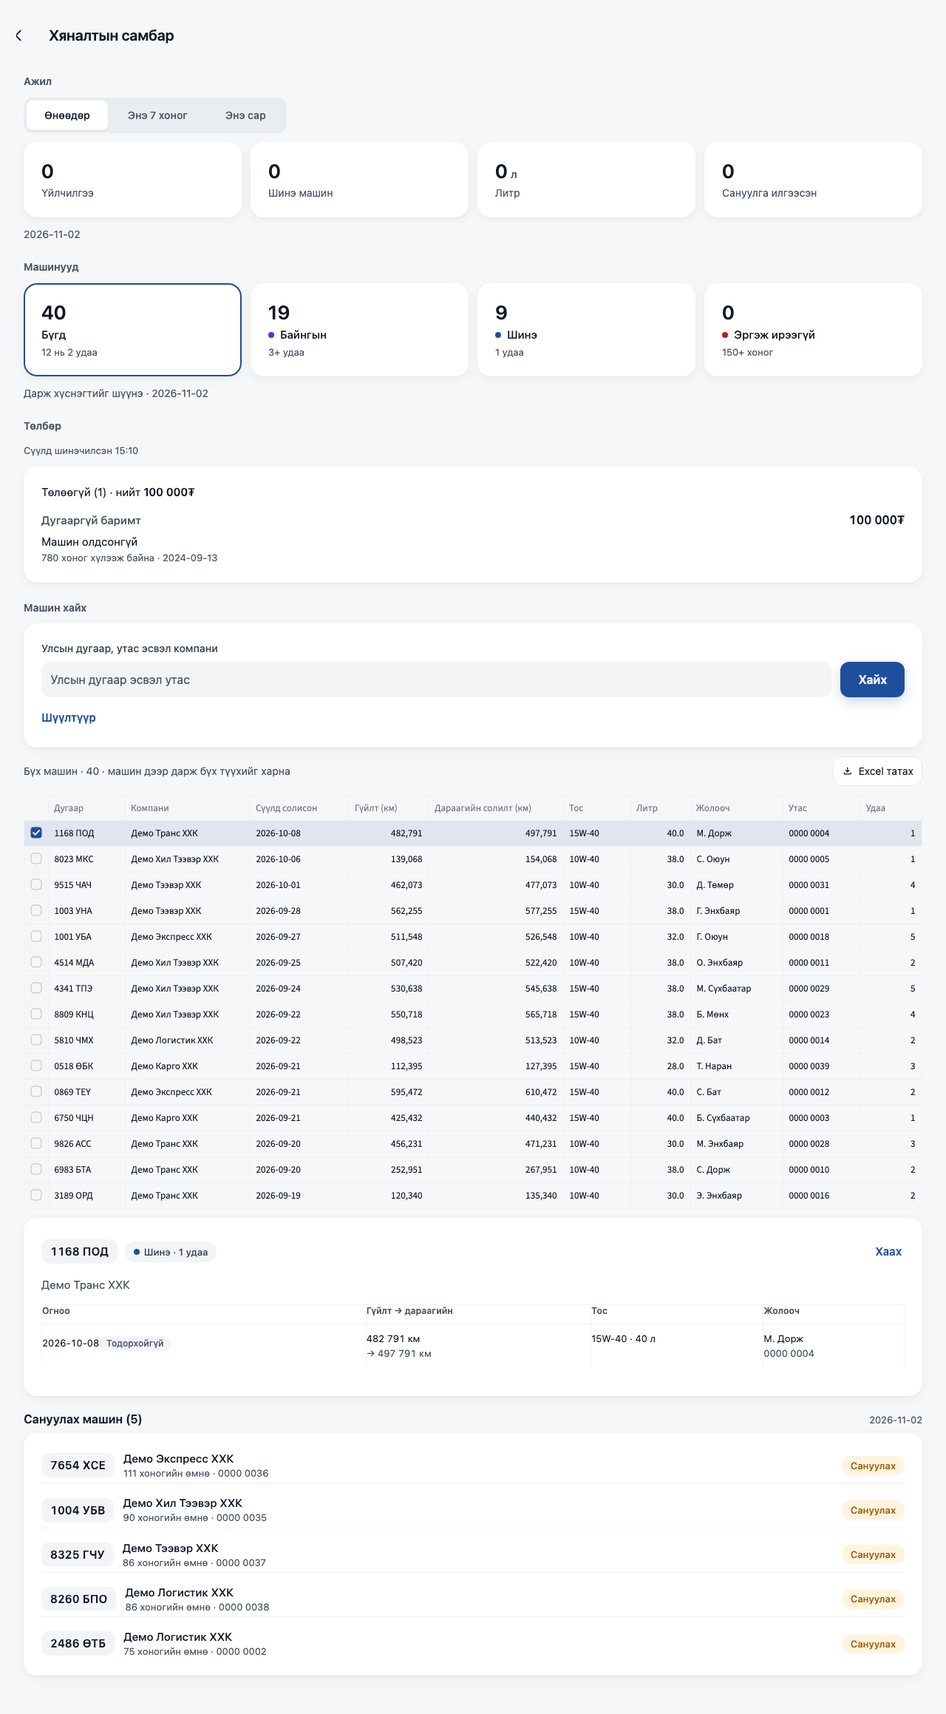
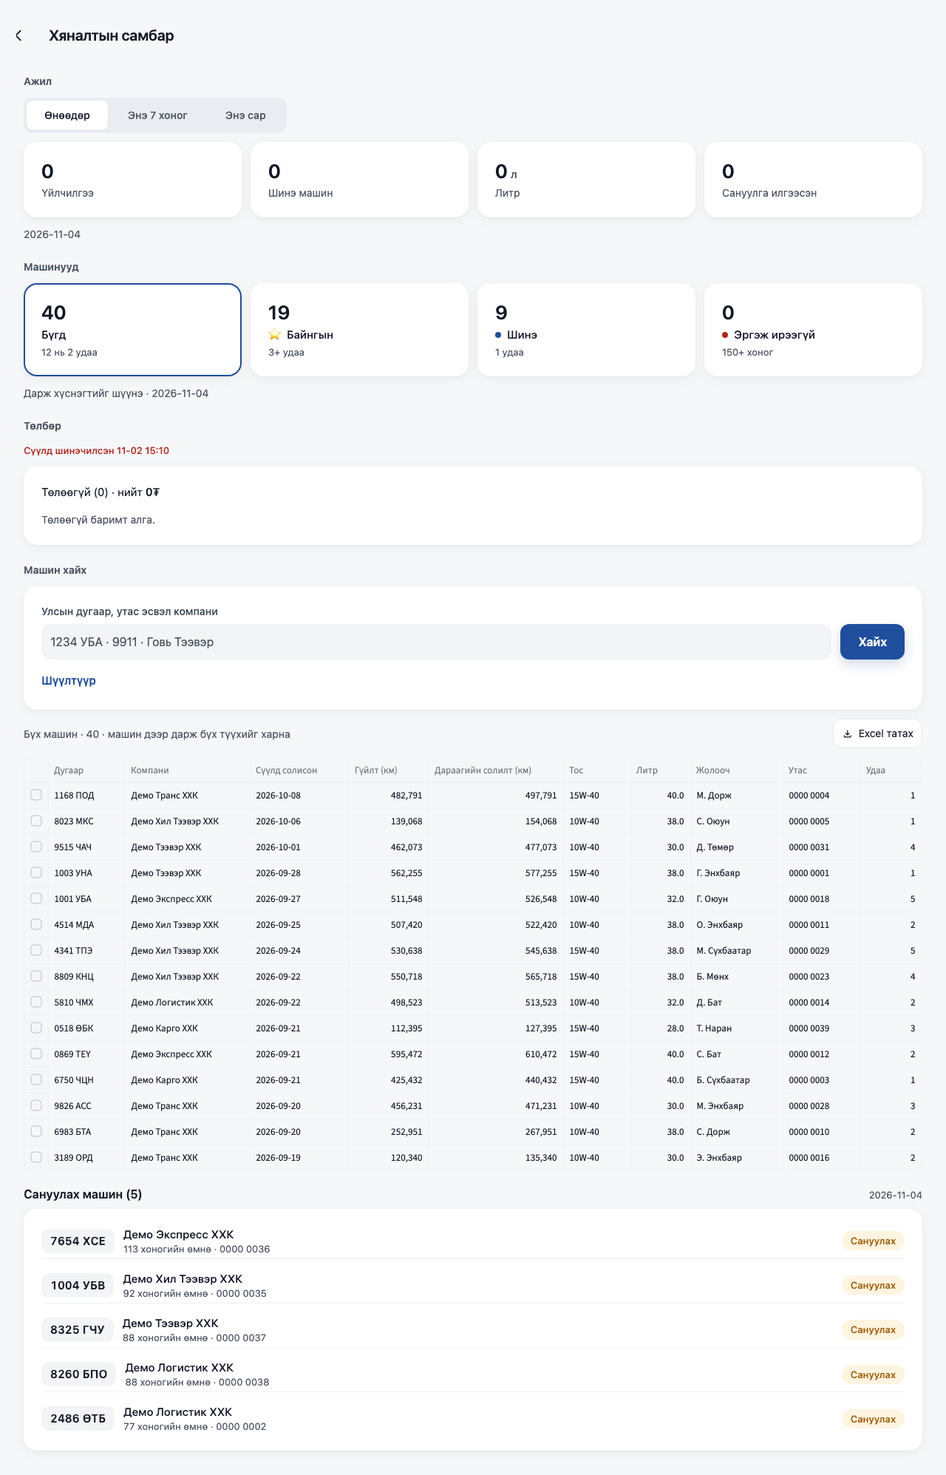
task 9.12-3: dashboard fixes (row click, star, placeholder, unpaid lookback, CI runner)
- computer table: a click on any cell opens the truck's history (single-row + single-cell
  selection, logic.picked_row); browser test clicks the middle of row 1
- «Байнгын» = ⭐ everywhere a segment mark is drawn (common.segment_mark_html)
- search placeholder «1234 УБА · 9911 · Говь Тээвэр» (14 px on a phone so it fits; typed text 16 px)
- GET /payments/unpaid: only bills of the last ARTLAB_UNPAID_LOOKBACK_DAYS (default 90),
  linked or not; checked at API startup
- CI: all jobs runs-on ubuntu-24.04
- new docs/design/9.12/after_{390,900,1280}.png

diff --git a/src/ui/views/dashboard.py b/src/ui/views/dashboard.py
@@ -82,6 +82,9 @@ WIDE_CSS = f"""
   .st-key-dash_period button {{flex: none; padding: 4px 24px !important;}}
 }}
 @media (max-width: {WIDE_PX - 0.02}px) {{
+  /* 9.12-3: the example placeholder fits the ~206 px phone field only at 14 px; typed text stays 16 px
+     (iOS zooms on focus by the input's own size, not the placeholder's) */
+  .st-key-card_dash_search input::placeholder {{font-size: 14px;}}
   .st-key-dash_table_wrap, [data-testid="stLayoutWrapper"]:has(> .st-key-dash_table_wrap) {{display: none !important;}}
 }}
 /* KPI tiles + segment cards: 2×2 on a phone, 4 across on a computer, 12 px apart */
@@ -159,10 +162,12 @@ WIDE_CSS = f"""
 
 
 def on_table_select(key: str) -> None:
-    """Table row clicked: open that truck's history (row number -> id of the table just shown)."""
-    rows = st.session_state[key].selection.rows
+    """Table clicked (any cell of a row, or its row marker): open that truck's history
+    (row number -> id of the table just shown). Nothing picked any more -> the history closes."""
+    selection = st.session_state[key].selection
+    row = logic.picked_row(selection.rows, selection.cells)
     ids = st.session_state.get(DASH_IDS, [])
-    open_history(ids[rows[0]] if rows and rows[0] < len(ids) else None)
+    open_history(ids[row] if row is not None and row < len(ids) else None)
 
 
 def open_history(vehicle_id: int | None) -> None:
@@ -206,11 +211,10 @@ def segment_cards() -> None:
     with st.container(key="dash_segs"):
         for card in logic.segment_cards(stats):
             name = card["segment"] or "all"
-            dot = f'<i class="dot" style="background:{card["dot"]}"></i>' if card["dot"] else ""
             with st.container(key=f"act_seg_{name}"):
                 common.html_block(
                     f'<div class="segc"><div class="v">{card["count"]}</div>'
-                    f'<div class="k">{dot}{html.escape(card["label"])}</div>'
+                    f'<div class="k">{common.segment_mark_html(card["segment"])}{html.escape(card["label"])}</div>'
                     f'<div class="d">{html.escape(card["hint"])}</div></div>')
                 # the label is what a screen reader says: count, and whether this card is the one shown
                 chosen = " · сонгосон" if card["segment"] == picked else ""
@@ -304,7 +308,7 @@ def search_form(options: dict, active: int, payments_on: bool = False, expand: b
             with st.container(key="dash_search_row"):  # CSS keeps this row unwrapped on a phone
                 cols = st.columns([4, 1], vertical_alignment="bottom")
             cols[0].text_input("Улсын дугаар, утас эсвэл компани", key=DASH_QUERY,
-                               placeholder="Улсын дугаар эсвэл утас")  # 9.12: fits the ~227 px phone field
+                               placeholder="1234 УБА · 9911 · Говь Тээвэр")  # 9.12-3: an example of each kind
             cols[1].form_submit_button("Хайх", type="primary", width="stretch")
             with st.expander(f"Шүүлтүүр ({active})" if active else "Шүүлтүүр", expanded=expand):
                 f = [*st.columns(4), *st.columns(4)]  # two rows: 4 fields each fit from 768 px
@@ -329,7 +333,7 @@ def search_form(options: dict, active: int, payments_on: bool = False, expand: b
 
 
 def results_table(vehicles: list[dict], search_key: str) -> None:
-    """Computer view: sortable table; clicking a row opens the history (no editing).
+    """Computer view: sortable table; a click anywhere in a row opens the history (no editing).
 
     The widget key includes the query + filters, so a new search starts with no row highlighted
     (a kept selection would point at a row number of the OLD results)."""
@@ -338,7 +342,8 @@ def results_table(vehicles: list[dict], search_key: str) -> None:
     with st.container(key="dash_table_wrap"):
         st.dataframe(
             logic.search_table_rows(vehicles), key=key, on_select=partial(on_table_select, key),  # no args= here
-            selection_mode="single-row", hide_index=True, width="stretch", row_height=ROW_PX,
+            # 9.12-3: "single-cell" too, so a click on ANY cell reports its row (not only the row marker)
+            selection_mode=["single-row", "single-cell"], hide_index=True, width="stretch", row_height=ROW_PX,
             height=min(ROW_PX * (len(vehicles) + 1) + 3, 16 * ROW_PX),  # header + rows; scrolls after 15 rows
             placeholder=logic.NOT_GIVEN,  # 9.5a: an empty cell shows «—», not "None" (mine trucks have no km)
             column_config={

diff --git a/tests/test_ui_browser.py b/tests/test_ui_browser.py
@@ -355,11 +355,14 @@ DASH_JS = """() => {
     input: box('.st-key-card_dash_search [data-testid="stTextInputRootElement"]'),
     button: box('.st-key-card_dash_search .stFormSubmitButton button'),
     filters: box('.st-key-card_dash_search [data-testid="stExpander"] summary p'),
-    // the placeholder's text width vs the field's inner width (canvas: the input's own font)
-    hint: (i => { const c = document.createElement('canvas').getContext('2d'), st = getComputedStyle(i);
-      c.font = st.fontSize + ' ' + st.fontFamily;
+    // the placeholder's text width vs the field's inner width (canvas: the placeholder's own font;
+    // 9.12-3: 14 px on a phone, the typed text stays 16 px)
+    hint: (i => { const c = document.createElement('canvas').getContext('2d'), st = getComputedStyle(i),
+                        ph = getComputedStyle(i, '::placeholder');
+      c.font = ph.fontSize + ' ' + ph.fontFamily;
       return [Math.ceil(c.measureText(i.placeholder).width),
               i.clientWidth - parseFloat(st.paddingLeft) - parseFloat(st.paddingRight)]; })(q('.st-key-card_dash_search input')),
+    font: parseFloat(getComputedStyle(q('.st-key-card_dash_search input')).fontSize),
     track: box('.st-key-dash_period div:has(> button)'),
     table: !!q('.st-key-dash_table_wrap')?.checkVisibility(), scroller: sc ? [sc.scrollWidth, sc.clientWidth] : null};
 }"""
@@ -396,6 +399,7 @@ def test_dashboard_layout_per_width(dash) -> None:
     assert abs(m["input"]["bottom"] - m["button"]["bottom"]) < 1 and m["button"]["left"] > m["input"]["right"], m
     assert abs(m["filters"]["left"] - m["input"]["left"]) < 1, m
     assert m["hint"][0] <= m["hint"][1], m                           # the whole placeholder is visible
+    assert m["font"] >= 16, m                                        # typed text: no iOS zoom on focus
     assert (m["track"]["width"] < 500) if wide else (m["track"]["width"] >= dash.width - 2 * 16 - 1), m
     assert m["table"] == wide, m                                     # phone: tappable cards instead
 
@@ -425,8 +429,10 @@ def test_dashboard_segment_card_filters_and_outlines(dash) -> None:
 
 
 def test_dashboard_history_below_list_and_in_view(dash) -> None:
-    """Pick a truck (phone: its row; computer: the table's row marker): the history opens BELOW the
-    list, full width, and is scrolled into view."""
+    """Pick a truck (phone: its row; computer: a click in the MIDDLE of table row 1, not its row
+    marker, 9.12-3): that truck's history opens BELOW the list, full width, and is scrolled into view."""
+    # row 1 = the first truck of the list; the phone cards hold the same list (hidden on a computer)
+    first_plate = dash.locator('[class*="st-key-act_dash_"] .plate').first.text_content()
     if dash.width < 768:
         dash.locator('[class*="st-key-act_dash_"]').first.click()
     else:
@@ -435,9 +441,10 @@ def test_dashboard_history_below_list_and_in_view(dash) -> None:
         table.wait_for(state="visible", timeout=15000)
         table.scroll_into_view_if_needed()
         box = table.bounding_box()
-        dash.mouse.click(box["x"] + 14, box["y"] + 35 * 1.5)       # row 1's selection marker
+        dash.mouse.click(box["x"] + box["width"] * 0.5, box["y"] + 35 * 1.5)  # a data cell of row 1
     panel = dash.locator(".st-key-card_dash_history")
     panel.wait_for(timeout=15000)
+    assert panel.locator(".plate").first.text_content() == first_plate     # the clicked row's truck
     dash.wait_for_timeout(1200)                                     # smooth scroll
     p = panel.bounding_box()
     list_box = dash.locator(".st-key-dash_list").bounding_box()

diff --git a/tests/test_api_payments.py b/tests/test_api_payments.py
@@ -10,9 +10,12 @@ from __future__ import annotations
 
 from datetime import datetime
 
+import pytest
 from fastapi.testclient import TestClient
 from sqlalchemy import Connection, text
 
+from src.api.config import DEFAULT_UNPAID_LOOKBACK_DAYS, ConfigError, unpaid_lookback_days
+from src.artlab.sync import SyncConfig
 from tests.test_api_data import client, pg  # noqa: F401  (fixtures)
 
 BIG_ID = 104400000000000001  # Artlab ids exceed 2^53 (notes §8c)
@@ -142,6 +145,30 @@ def test_unpaid_list_oldest_first_with_truck_or_receipt_data(client: TestClient,
     assert (unlinked["service_id"], unlinked["vehicle_id"], unlinked["match_note"]) == (None, None, "multiple")
     assert (unlinked["plates"], unlinked["phones"], unlinked["total_gross"]) == (["1234УБА", "5678УНА"], ["99112233"], None)
     assert unlinked["days_waiting"] == 5
+
+
+def test_unpaid_lookback_setting() -> None:
+    """9.12-3: ARTLAB_UNPAID_LOOKBACK_DAYS default 90, same as the sync; a bad value stops the API."""
+    assert unpaid_lookback_days({}) == DEFAULT_UNPAID_LOOKBACK_DAYS == SyncConfig.unpaid_lookback_days == 90
+    assert unpaid_lookback_days({"ARTLAB_UNPAID_LOOKBACK_DAYS": " 30 "}) == 30
+    for raw in ("0", "-5", "abc", "1.5"):
+        with pytest.raises(ConfigError, match="ARTLAB_UNPAID_LOOKBACK_DAYS"):
+            unpaid_lookback_days({"ARTLAB_UNPAID_LOOKBACK_DAYS": raw})
+
+
+def test_unpaid_list_only_within_lookback(client: TestClient, pg: Connection, monkeypatch) -> None:  # noqa: F811
+    """9.12-3: bills older than ARTLAB_UNPAID_LOOKBACK_DAYS (default 90) are not listed, linked or
+    not: a 780-day-old receipt without a plate is left out, 90 days is still in, 91 is out."""
+    monkeypatch.delenv("ARTLAB_UNPAID_LOOKBACK_DAYS", raising=False)
+    seed(pg)
+    add_bill(pg, 21, "2024-08-11", "unpaid", note="none", credit=10000)   # 780 days before TODAY
+    add_bill(pg, 22, "2026-07-02", "unpaid", note="none", credit=20000)   # 90 days
+    add_bill(pg, 23, "2026-07-01", "unpaid", note="none", credit=30000)   # 91 days
+    body = client.get("/payments/unpaid").json()
+    assert [i["artlab_id"] for i in body["items"]] == ["22", "12", str(BIG_ID)]
+    assert (body["total"], body["total_due"]) == (3, 125000.5)                # totals skip old bills too
+    monkeypatch.setenv("ARTLAB_UNPAID_LOOKBACK_DAYS", "10")
+    assert [i["artlab_id"] for i in client.get("/payments/unpaid").json()["items"]] == [str(BIG_ID)]
 
 
 def test_unpaid_limit_keeps_the_totals(client: TestClient, pg: Connection) -> None:  # noqa: F811

diff --git a/src/ui/common.py b/src/ui/common.py
@@ -218,6 +218,7 @@ a.logout:hover {color: var(--pri-dark);}
   background: var(--fill); color: var(--ink2);}
 .chip.known {background: #E8F5EE; color: #1E7A4C;} .chip.new {background: var(--pri-tint); color: var(--pri);}
 .dot {display: inline-block; width: 8px; height: 8px; border-radius: 50%; flex: none;}
+.seg-ic {flex: none; font-size: .9em; line-height: 1;}  /* 9.12-3: ⭐ «Байнгын» in place of a dot */
 .muted {color: var(--muted); font-size: 14px;}
 .line {color: var(--muted); font-size: 15px; margin-top: -4px;}
 .pill-st {display: inline-flex; align-items: center; padding: 4px 12px; border-radius: 999px; font-size: 13px; font-weight: 500; white-space: nowrap;}
@@ -392,13 +393,20 @@ def known_chip_html(card: dict | None) -> str:
 
 
 def segment_chip_html(segment: str | None, service_count: int | None = None) -> str:
-    """Small grey chip next to the plate: colored dot + «Байнгын · 3 удаа» (word, never color alone)."""
+    """Small grey chip next to the plate: segment mark + «Байнгын · 3 удаа» (word, never color alone)."""
     parts = [logic.segment_label(segment)] if segment else []
     if service_count:
         parts.append(f"{service_count} удаа")
     if not parts:
         return ""
-    return f'<span class="chip">{_dot(logic.SEGMENT_DOTS.get(segment))}{html.escape(" · ".join(parts))}</span>'
+    return f'<span class="chip">{segment_mark_html(segment)}{html.escape(" · ".join(parts))}</span>'
+
+
+def segment_mark_html(segment: str | None) -> str:
+    """The mark before a segment word, the same on every screen: ⭐ for «Байнгын» (9.12-3),
+    a colored dot for the others, nothing for «Бүгд» / no segment."""
+    icon = logic.SEGMENT_ICONS.get(segment or "")
+    return f'<span class="seg-ic" aria-hidden="true">{icon}</span>' if icon else _dot(logic.SEGMENT_DOTS.get(segment or ""))
 
 
 def _dot(color: str | None) -> str:

diff --git a/src/api/routers/payments.py b/src/api/routers/payments.py
@@ -1,6 +1,7 @@
 """Artlab payments, read only (task 9.6b-4).
 
-GET /payments/unpaid       unpaid receipts, oldest first, with the linked truck (if any)
+GET /payments/unpaid       unpaid receipts of the last ARTLAB_UNPAID_LOOKBACK_DAYS days (default 90),
+                           oldest first, with the linked truck (if any)
 GET /payments/sync-status  latest Artlab sync run per kind and per bank account
 
 The data comes from the sync's copy (artlab_bills, sync_runs); nothing here calls Artlab or
@@ -15,6 +16,7 @@ from fastapi import APIRouter, Depends, Query
 from sqlalchemy.orm import Session
 
 from src.api.clock import get_today
+from src.api.config import unpaid_lookback_days
 from src.api.db import get_session
 from src.api.payments import connected, sync_status, unpaid_bills
 from src.api.schemas import SyncRunOut, SyncStatusOut, UnpaidBillOut, UnpaidList
@@ -31,9 +33,9 @@ def unpaid(
     today: TodayDep,
     limit: Annotated[int, Query(ge=1, le=1000, description="Rows returned (total / total_due count all)")] = 200,
 ) -> UnpaidList:
-    """Receipts still owed (Төлөөгүй), longest wait first. Linked receipts carry the truck and its
+    """Receipts still owed (Төлөөгүй) from the last ARTLAB_UNPAID_LOOKBACK_DAYS days, longest wait first. Linked receipts carry the truck and its
     company; unlinked ones only the plates / phones found in the receipt (match_note says why)."""
-    bills = unpaid_bills(session, today)
+    bills = unpaid_bills(session, today, unpaid_lookback_days())  # 9.12-3: older bills are not listed
     items = [UnpaidBillOut(**{**b.__dict__, "artlab_id": str(b.artlab_id)}) for b in bills[:limit]]
     return UnpaidList(connected=connected(session), total=len(bills),
                       total_due=round(sum(b.amount_due for b in bills), 2), items=items)

diff --git a/src/api/payments.py b/src/api/payments.py
@@ -17,7 +17,7 @@ from __future__ import annotations
 from collections import defaultdict
 from collections.abc import Iterable, Sequence
 from dataclasses import dataclass
-from datetime import date
+from datetime import date, timedelta
 
 from sqlalchemy import text
 from sqlalchemy.orm import Session
@@ -105,8 +105,9 @@ class UnpaidBill:
     phones: list[str]
 
 
-def unpaid_bills(session: Session, today: date) -> list[UnpaidBill]:
-    """Every unpaid receipt, oldest first (the longest wait on top)."""
+def unpaid_bills(session: Session, today: date, lookback_days: int) -> list[UnpaidBill]:
+    """Unpaid receipts of the last ``lookback_days`` days (linked or not), oldest first (the
+    longest wait on top). Older bills are left out: the sync no longer re-checks them (9.12-3)."""
     rows = session.execute(text(
         "SELECT b.artlab_id, b.bill_date, b.credit_amount, b.total_gross, b.match_confidence, b.match_note, "
         "       b.service_id, v.id, v.identifier, c.name, b.plates, b.phones "
@@ -114,8 +115,8 @@ def unpaid_bills(session: Session, today: date) -> list[UnpaidBill]:
         "LEFT JOIN service_records s ON s.id = b.service_id "
         "LEFT JOIN vehicles v ON v.id = s.vehicle_id "
         "LEFT JOIN companies c ON c.id = v.company_id "
-        "WHERE b.payment_status = 'unpaid' ORDER BY b.bill_date, b.artlab_id"
-    )).all()
+        "WHERE b.payment_status = 'unpaid' AND b.bill_date >= :since ORDER BY b.bill_date, b.artlab_id"
+    ), {"since": today - timedelta(days=lookback_days)}).all()
     return [UnpaidBill(
         artlab_id=r[0], bill_date=r[1], days_waiting=(today - r[1]).days, amount_due=float(r[2]),
         total_gross=None if r[3] is None else float(r[3]), match_confidence=r[4], match_note=r[5],

diff --git a/src/ui/logic.py b/src/ui/logic.py
@@ -23,9 +23,10 @@ SEGMENT_LABELS: dict[str, str] = {
 SEGMENT_DOTS: dict[str, str] = {
     "new": "#1F4E9D",
     "returning": "#1E7A4C",
-    "loyal": "#6D28D9",
     "at_risk": "#B42318",
 }
+# 9.12-3 (PM, as in the 9.12 mockup): «Байнгын» gets a star instead of a (purple) dot
+SEGMENT_ICONS: dict[str, str] = {"loyal": "⭐"}
 
 ROUTE_LABELS: dict[str, str] = {
     "ub_city": "Улаанбаатар хот",
@@ -329,7 +330,7 @@ def segment_cards(stats: dict) -> list[dict[str, Any]]:
              "at_risk": f"{stats.get('at_risk_days', 150)}+ хоног"}
     return [{"segment": s, "label": ALL_LABEL if s is None else SEGMENT_LABELS[s],
              "count": stats.get("total", 0) if s is None else counts.get(s, 0),
-             "hint": hints[s], "dot": SEGMENT_DOTS.get(s or "")} for s in SEGMENT_CARDS]
+             "hint": hints[s]} for s in SEGMENT_CARDS]
 
 
 # Task 9.5c: one reminder per service; the pill says whether the truck is also at risk (API `segment`).
@@ -480,6 +481,15 @@ def search_table_rows(vehicles: list[dict]) -> list[dict[str, Any]]:
             "Удаа": v.get("service_count"),
         })
     return rows
+
+
+def picked_row(rows: list[int], cells: list[tuple[int, str]]) -> int | None:
+    """Row number picked in the dashboard table (9.12-3): its row marker, else the row of the
+    clicked cell; None = nothing picked. Row numbers are positions in the rows as sent, also
+    after the user sorted the table in the browser (Streamlit keeps the original position)."""
+    if rows:
+        return rows[0]
+    return cells[0][0] if cells else None
 
 
 FILTER_KEYS = ("date_from", "date_to", "company_id", "route", "oil_grade",

diff --git a/tests/test_ui_logic.py b/tests/test_ui_logic.py
@@ -759,7 +759,6 @@ def test_segment_cards_order_counts_and_hints() -> None:
     assert [(c["segment"], c["label"], c["count"], c["hint"]) for c in cards] == [
         (None, "Бүгд", 40, "12 нь 2 удаа"), ("loyal", "Байнгын", 19, "3+ удаа"),
         ("new", "Шинэ", 9, "1 удаа"), ("at_risk", "Эргэж ирээгүй", 0, "150+ хоног")]
-    assert cards[0]["dot"] is None and cards[3]["dot"] == logic.SEGMENT_DOTS["at_risk"]
     assert logic.segment_cards({**stats, "at_risk_days": 120})[3]["hint"] == "120+ хоног"  # from the API
 
 
@@ -767,3 +766,11 @@ def test_segment_filter_counts_and_names_the_excel_line() -> None:
     assert "segment" in logic.FILTER_KEYS
     assert logic.active_filter_count({"segment": "loyal"}) == 1
     assert logic.filters_text("", {"segment": "at_risk"}, {}) == "Сегмент: Эргэж ирээгүй"
+
+
+def test_picked_row_marker_or_any_cell() -> None:
+    """9.12-3: a click on any cell opens the truck, like its row marker; nothing picked = None."""
+    assert logic.picked_row([2], []) == 2
+    assert logic.picked_row([], [(4, "Компани")]) == 4
+    assert logic.picked_row([1], [(4, "Тос")]) == 1          # the row marker wins
+    assert logic.picked_row([], []) is None

diff --git a/src/api/main.py b/src/api/main.py
@@ -20,7 +20,7 @@ from fastapi import FastAPI
 from sqlalchemy import Engine
 
 from src.api.auth import LoginLimiter, load_auth_config
-from src.api.config import load_settings, oil_interval_km, reminder_rules
+from src.api.config import load_settings, oil_interval_km, reminder_rules, unpaid_lookback_days
 from src.api.config import model_dir as model_dir_from_env
 from src.api.db import create_db_engine
 from src.api.prediction import load_predictor
@@ -53,6 +53,7 @@ def create_app(engine: Engine | None = None, model_dir: Path | None = None) -> F
     async def lifespan(app: FastAPI) -> AsyncIterator[None]:
         oil_interval_km()  # 9.5a: a bad OIL_INTERVAL_KM stops the start here, not every card request
         reminder_rules()   # 9.5c: bad REMINDER_DAYS / AT_RISK_DAYS, or AT_RISK_DAYS <= REMINDER_DAYS, stop it too
+        unpaid_lookback_days()  # 9.12-3: a bad ARTLAB_UNPAID_LOOKBACK_DAYS stops it too
         # 8.5r: UI_PASSWORD + AUTH_SECRET read once; UI_PASSWORD set without AUTH_SECRET stops the start
         app.state.auth = load_auth_config()
         app.state.engine = engine if engine is not None else create_db_engine(load_settings().database_url)

diff --git a/tests/test_ui_app.py b/tests/test_ui_app.py
@@ -1150,6 +1150,17 @@ def test_overview_segment_tiles(fake_api) -> None:
                                (1, "Эргэж ирээгүй", "150+ хоног")):
         assert (f'<div class="segc"><div class="v">{count}</div><div class="k">' in page
                 and f"{label}</div><div class=\"d\">{hint}</div>" in page), label
+    # 9.12-3: «Байнгын» = ⭐, no purple dot anywhere; the other segments keep their dot
+    assert '<span class="seg-ic" aria-hidden="true">⭐</span>Байнгын</div>' in page
+    assert "#6D28D9" not in page
+
+
+def test_segment_mark_star_for_loyal_dot_for_others() -> None:
+    """9.12-3: one mark per segment, the same on every screen (cards, plate chip, record screen)."""
+    assert "⭐" in common.segment_mark_html("loyal") and "dot" not in common.segment_mark_html("loyal")
+    assert common.segment_mark_html("at_risk") == '<i class="dot" style="background:#B42318"></i>'
+    assert common.segment_mark_html(None) == ""
+    assert "⭐" in common.segment_chip_html("loyal", 3) and "Байнгын · 3 удаа" in common.segment_chip_html("loyal", 3)
 
 
 def test_reminders_api_error_shown(fake_api) -> None:

diff --git a/src/api/config.py b/src/api/config.py
@@ -161,6 +161,18 @@ def reminder_rules(env: Mapping[str, str] | None = None) -> ReminderRules:
     return rules
 
 
+# Task 9.12-3: the «Төлөөгүй» list shows only bills from the last N days. Same setting (and default)
+# as the nightly sync's re-check window (src/artlab/sync.py): an older bill is never re-checked, so
+# its «unpaid» may be stale and must not be listed as money owed.
+DEFAULT_UNPAID_LOOKBACK_DAYS = 90
+
+
+def unpaid_lookback_days(env: Mapping[str, str] | None = None) -> int:
+    """ARTLAB_UNPAID_LOOKBACK_DAYS (default 90). Not a whole number > 0 -> ConfigError."""
+    env = os.environ if env is None else env
+    return _whole_days(env, "ARTLAB_UNPAID_LOOKBACK_DAYS", DEFAULT_UNPAID_LOOKBACK_DAYS)
+
+
 def reminder_contact(env: Mapping[str, str] | None = None) -> Contact:
     """Contact at the end of every reminder (needs no database settings).
 

diff --git a/src/ui/views/record.py b/src/ui/views/record.py
@@ -357,7 +357,7 @@ def form_recognized(card: dict, checked: dict) -> None:
                           horizontal_alignment="distribute"):
             common.html_block(
                 f'<div><div class="vh-big">{html.escape(checked["identifier"])}</div>'
-                f'<div class="vh-sub" style="color:#4B5563">{common._dot(logic.SEGMENT_DOTS.get(seg))}'
+                f'<div class="vh-sub" style="color:#4B5563">{common.segment_mark_html(seg)}'
                 f'{html.escape(sub)}</div></div>')
             st.button("Буруу", key="btn_wrong", on_click=on_wrong, type="tertiary")
         rows = [("Өмнөх удаа", logic.prev_visit_text(last))]
